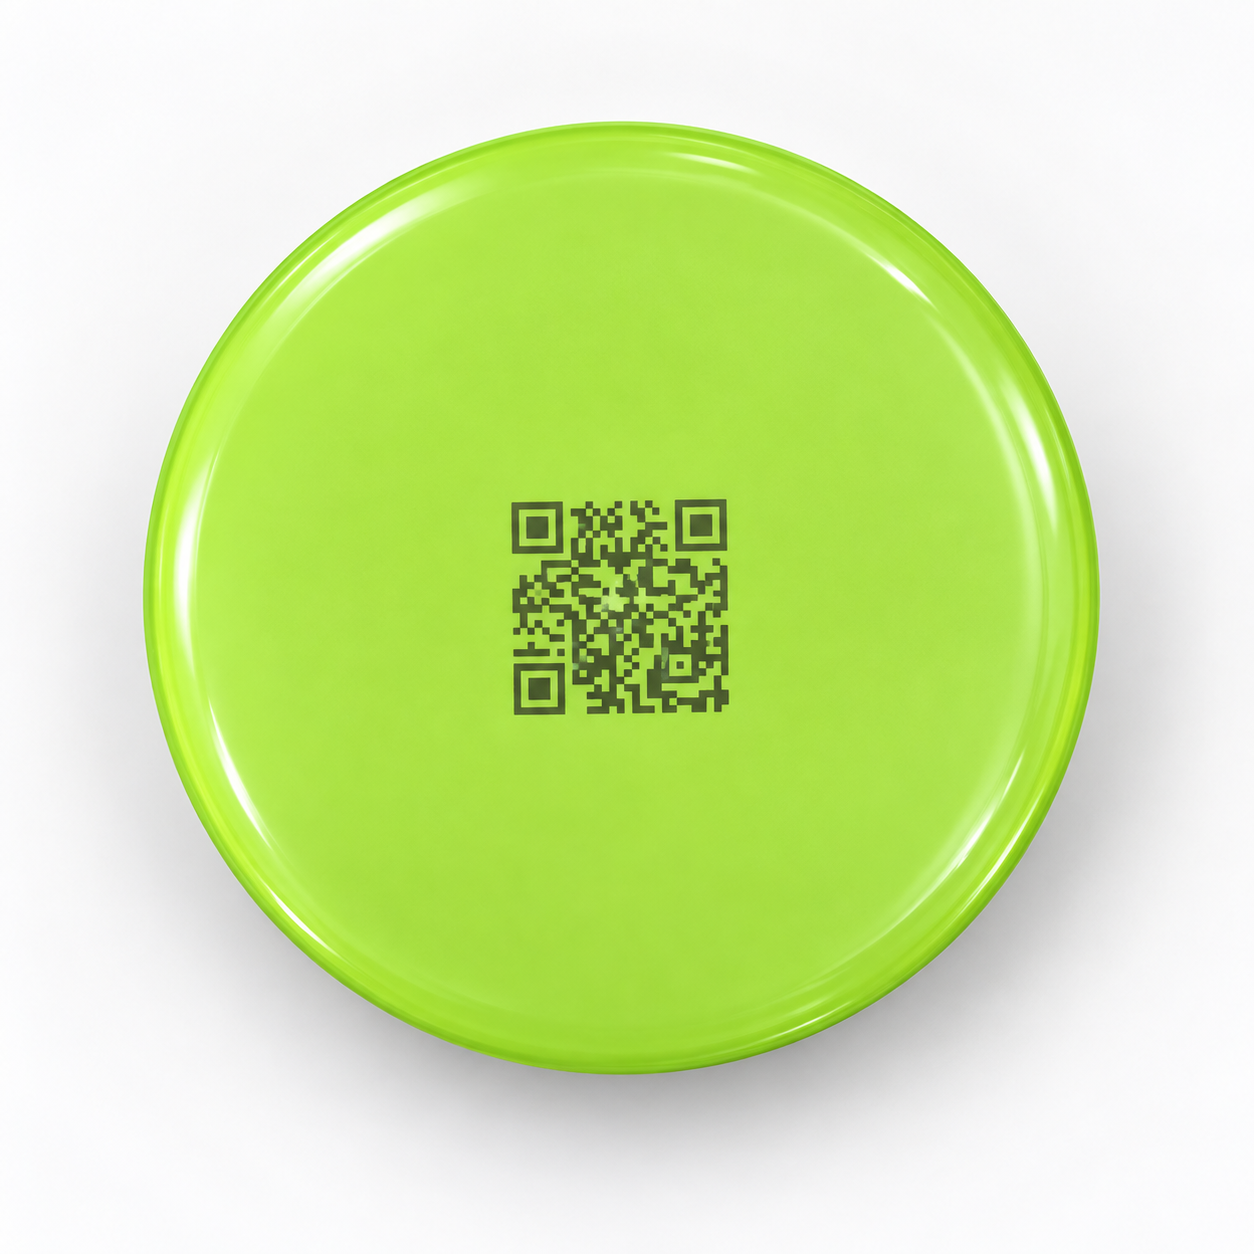
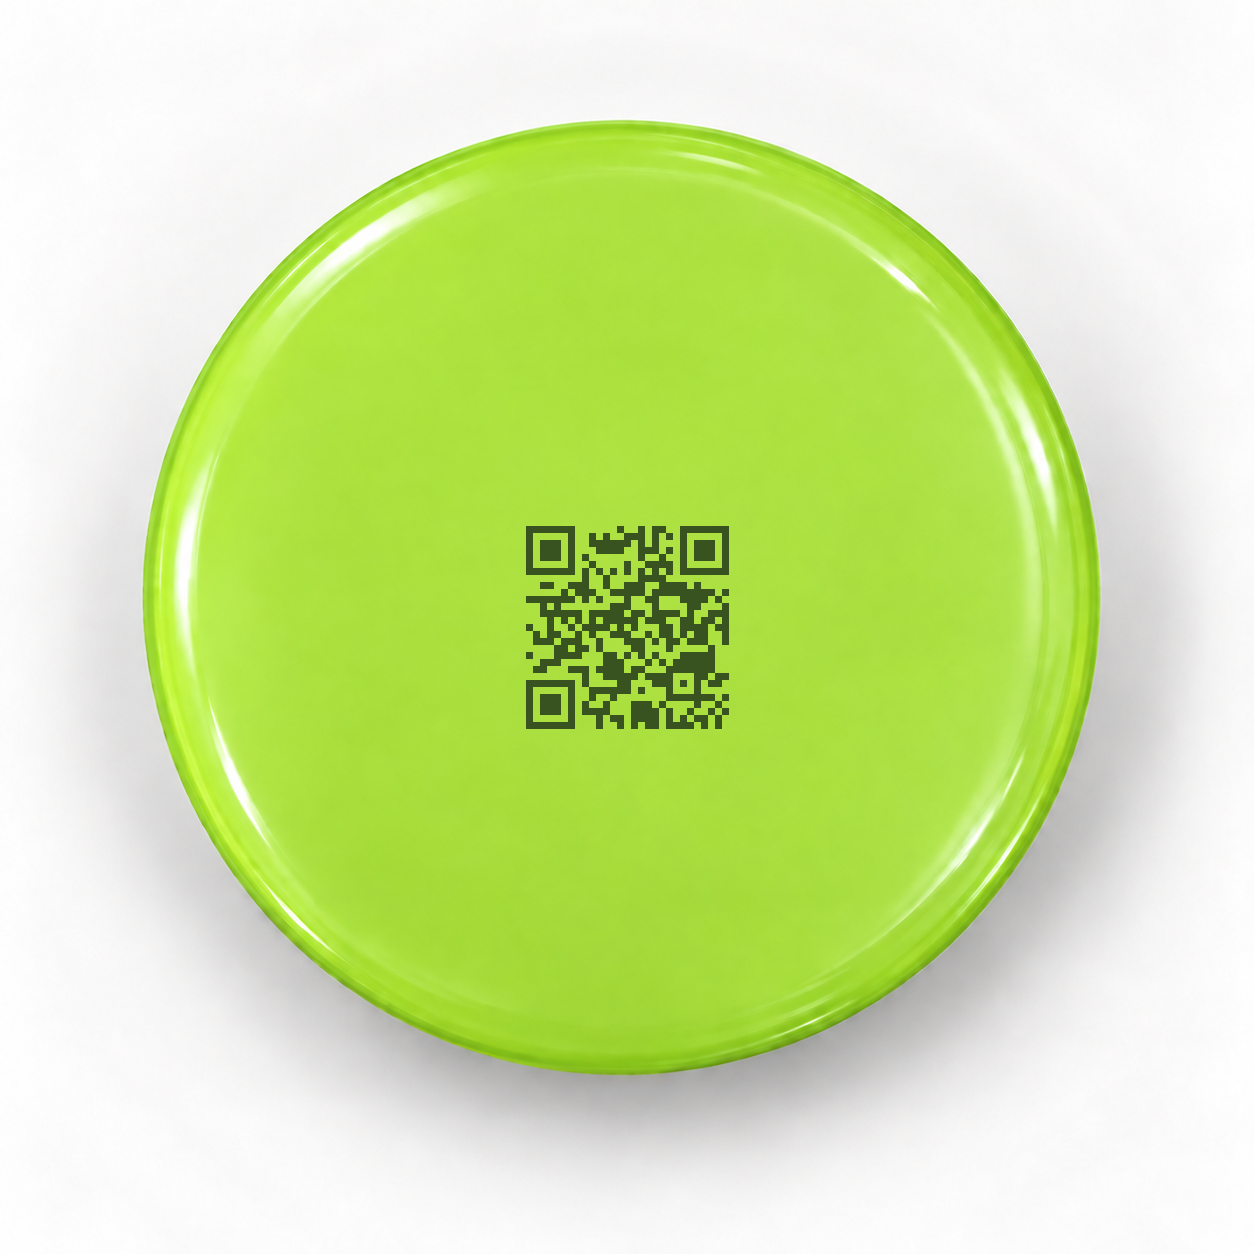
Add files via upload

diff --git a/case-plastic-cap-qr-laser-marking.html b/case-plastic-cap-qr-laser-marking.html
@@ -4,13 +4,13 @@
     <meta charset="UTF-8">
     <meta name="viewport" content="width=device-width, initial-scale=1.0">
     <title>플라스틱 용기 뚜껑 QR코드 레이저 마킹 사례 | 쿠키혼레이저</title>
-    <meta name="description" content="플라스틱 용기 뚜껑 중앙에 QR코드를 레이저로 마킹해 대비와 코드 형상을 확인한 쿠키혼레이저 적용사례입니다.">
+    <meta name="description" content="플라스틱 용기 뚜껑 중앙에 www.kooky.co.kr로 연결되는 QR코드를 레이저로 마킹한 쿠키혼레이저 적용사례입니다.">
     <meta name="robots" content="index, follow, max-image-preview:large">
     <link rel="canonical" href="https://www.kooky.co.kr/case-plastic-cap-qr-laser-marking.html">
     <meta property="og:type" content="article">
     <meta property="og:site_name" content="쿠키혼레이저">
     <meta property="og:title" content="플라스틱 용기 뚜껑 QR코드 레이저 마킹 사례">
-    <meta property="og:description" content="플라스틱 뚜껑에 표현한 QR코드 레이저 마킹 샘플과 적용 검토 항목을 확인해 보세요.">
+    <meta property="og:description" content="플라스틱 뚜껑에 www.kooky.co.kr로 연결되는 QR코드를 레이저 마킹한 샘플을 확인해 보세요.">
     <meta property="og:url" content="https://www.kooky.co.kr/case-plastic-cap-qr-laser-marking.html">
     <meta property="og:image" content="https://www.kooky.co.kr/case-plastic-cap-qr-laser-marking.png">
     <meta name="twitter:card" content="summary_large_image">
@@ -19,7 +19,7 @@
         "@context": "https://schema.org",
         "@type": "Article",
         "headline": "플라스틱 용기 뚜껑 QR코드 레이저 마킹 사례",
-        "description": "플라스틱 용기 뚜껑 중앙에 QR코드를 레이저로 마킹해 대비와 코드 형상을 확인한 적용사례",
+        "description": "플라스틱 용기 뚜껑 중앙에 www.kooky.co.kr로 연결되는 QR코드를 레이저로 마킹한 적용사례",
         "image": "https://www.kooky.co.kr/case-plastic-cap-qr-laser-marking.png",
         "author": { "@type": "Organization", "name": "쿠키혼레이저㈜" },
         "publisher": { "@type": "Organization", "name": "쿠키혼레이저㈜" },
@@ -65,7 +65,7 @@
             <div class="max-w-7xl mx-auto px-6 py-24">
                 <div class="section-kicker">Plastic QR Code Marking</div>
                 <h1 class="mt-8 text-4xl md:text-6xl font-black tracking-[-0.06em] leading-tight">플라스틱 뚜껑에 새긴<br>QR코드</h1>
-                <p class="mt-8 max-w-4xl text-lg md:text-xl text-slate-300 leading-9">플라스틱 용기 뚜껑의 중앙에 QR코드를 레이저로 마킹했습니다. 제품 표면에서 코드의 모듈과 대비가 어떻게 표현되는지 편하게 살펴보세요.</p>
+                <p class="mt-8 max-w-4xl text-lg md:text-xl text-slate-300 leading-9">플라스틱 용기 뚜껑의 중앙에 쿠키혼레이저 홈페이지로 연결되는 QR코드를 레이저로 마킹했습니다. 제품 표면에서 코드가 어떻게 표현되는지 편하게 살펴보세요.</p>
             </div>
         </section>
 
@@ -77,7 +77,7 @@
                 <div>
                     <div class="section-kicker">Sample Overview</div>
                     <h2 class="mt-5 text-4xl font-black tracking-[-0.05em]">뚜껑 중앙 QR코드 마킹</h2>
-                    <p class="mt-6 text-slate-600 leading-8">색상이 있는 플라스틱 뚜껑 표면에 QR코드를 배치한 샘플입니다. 잉크나 라벨을 덧붙이지 않고 제품 표면에 직접 정보를 표현하는 구성을 검토할 수 있습니다.</p>
+                    <p class="mt-6 text-slate-600 leading-8">색상이 있는 플라스틱 뚜껑 표면에 QR코드를 배치한 샘플입니다. 코드를 스캔하면 <a href="https://www.kooky.co.kr/" class="font-black kh-blue hover:underline">www.kooky.co.kr</a>로 연결되며, 잉크나 라벨 없이 제품 표면에 직접 정보를 표현하는 구성을 확인할 수 있습니다.</p>
                     <div class="mt-8 flex flex-wrap gap-2 text-sm font-black">
                         <span class="px-4 py-2 rounded-full bg-blue-50 kh-blue">플라스틱 용기</span>
                         <span class="px-4 py-2 rounded-full bg-blue-50 kh-blue">QR코드</span>

diff --git a/index.html b/index.html
@@ -2313,7 +2313,7 @@
                                     <span class="px-3 py-1 bg-blue-50 text-[var(--kh-blue)] rounded-full">QR코드</span>
                                 </div>
                                 <h4 class="mt-5 text-2xl font-black tracking-[-0.04em]">플라스틱 용기 뚜껑 QR코드 마킹</h4>
-                                <p class="mt-4 text-slate-600 leading-7">플라스틱 뚜껑 중앙에 QR코드를 레이저로 표현해 대비와 코드 형상을 살펴본 샘플입니다.</p>
+                                <p class="mt-4 text-slate-600 leading-7">플라스틱 뚜껑 중앙에 쿠키혼레이저 홈페이지로 연결되는 QR코드를 마킹한 샘플입니다.</p>
                                 <a href="case-plastic-cap-qr-laser-marking.html" class="inline-block mt-6 font-black text-[var(--kh-blue)] hover:underline">상세 결과 보기 →</a>
                             </div>
                         </article>
